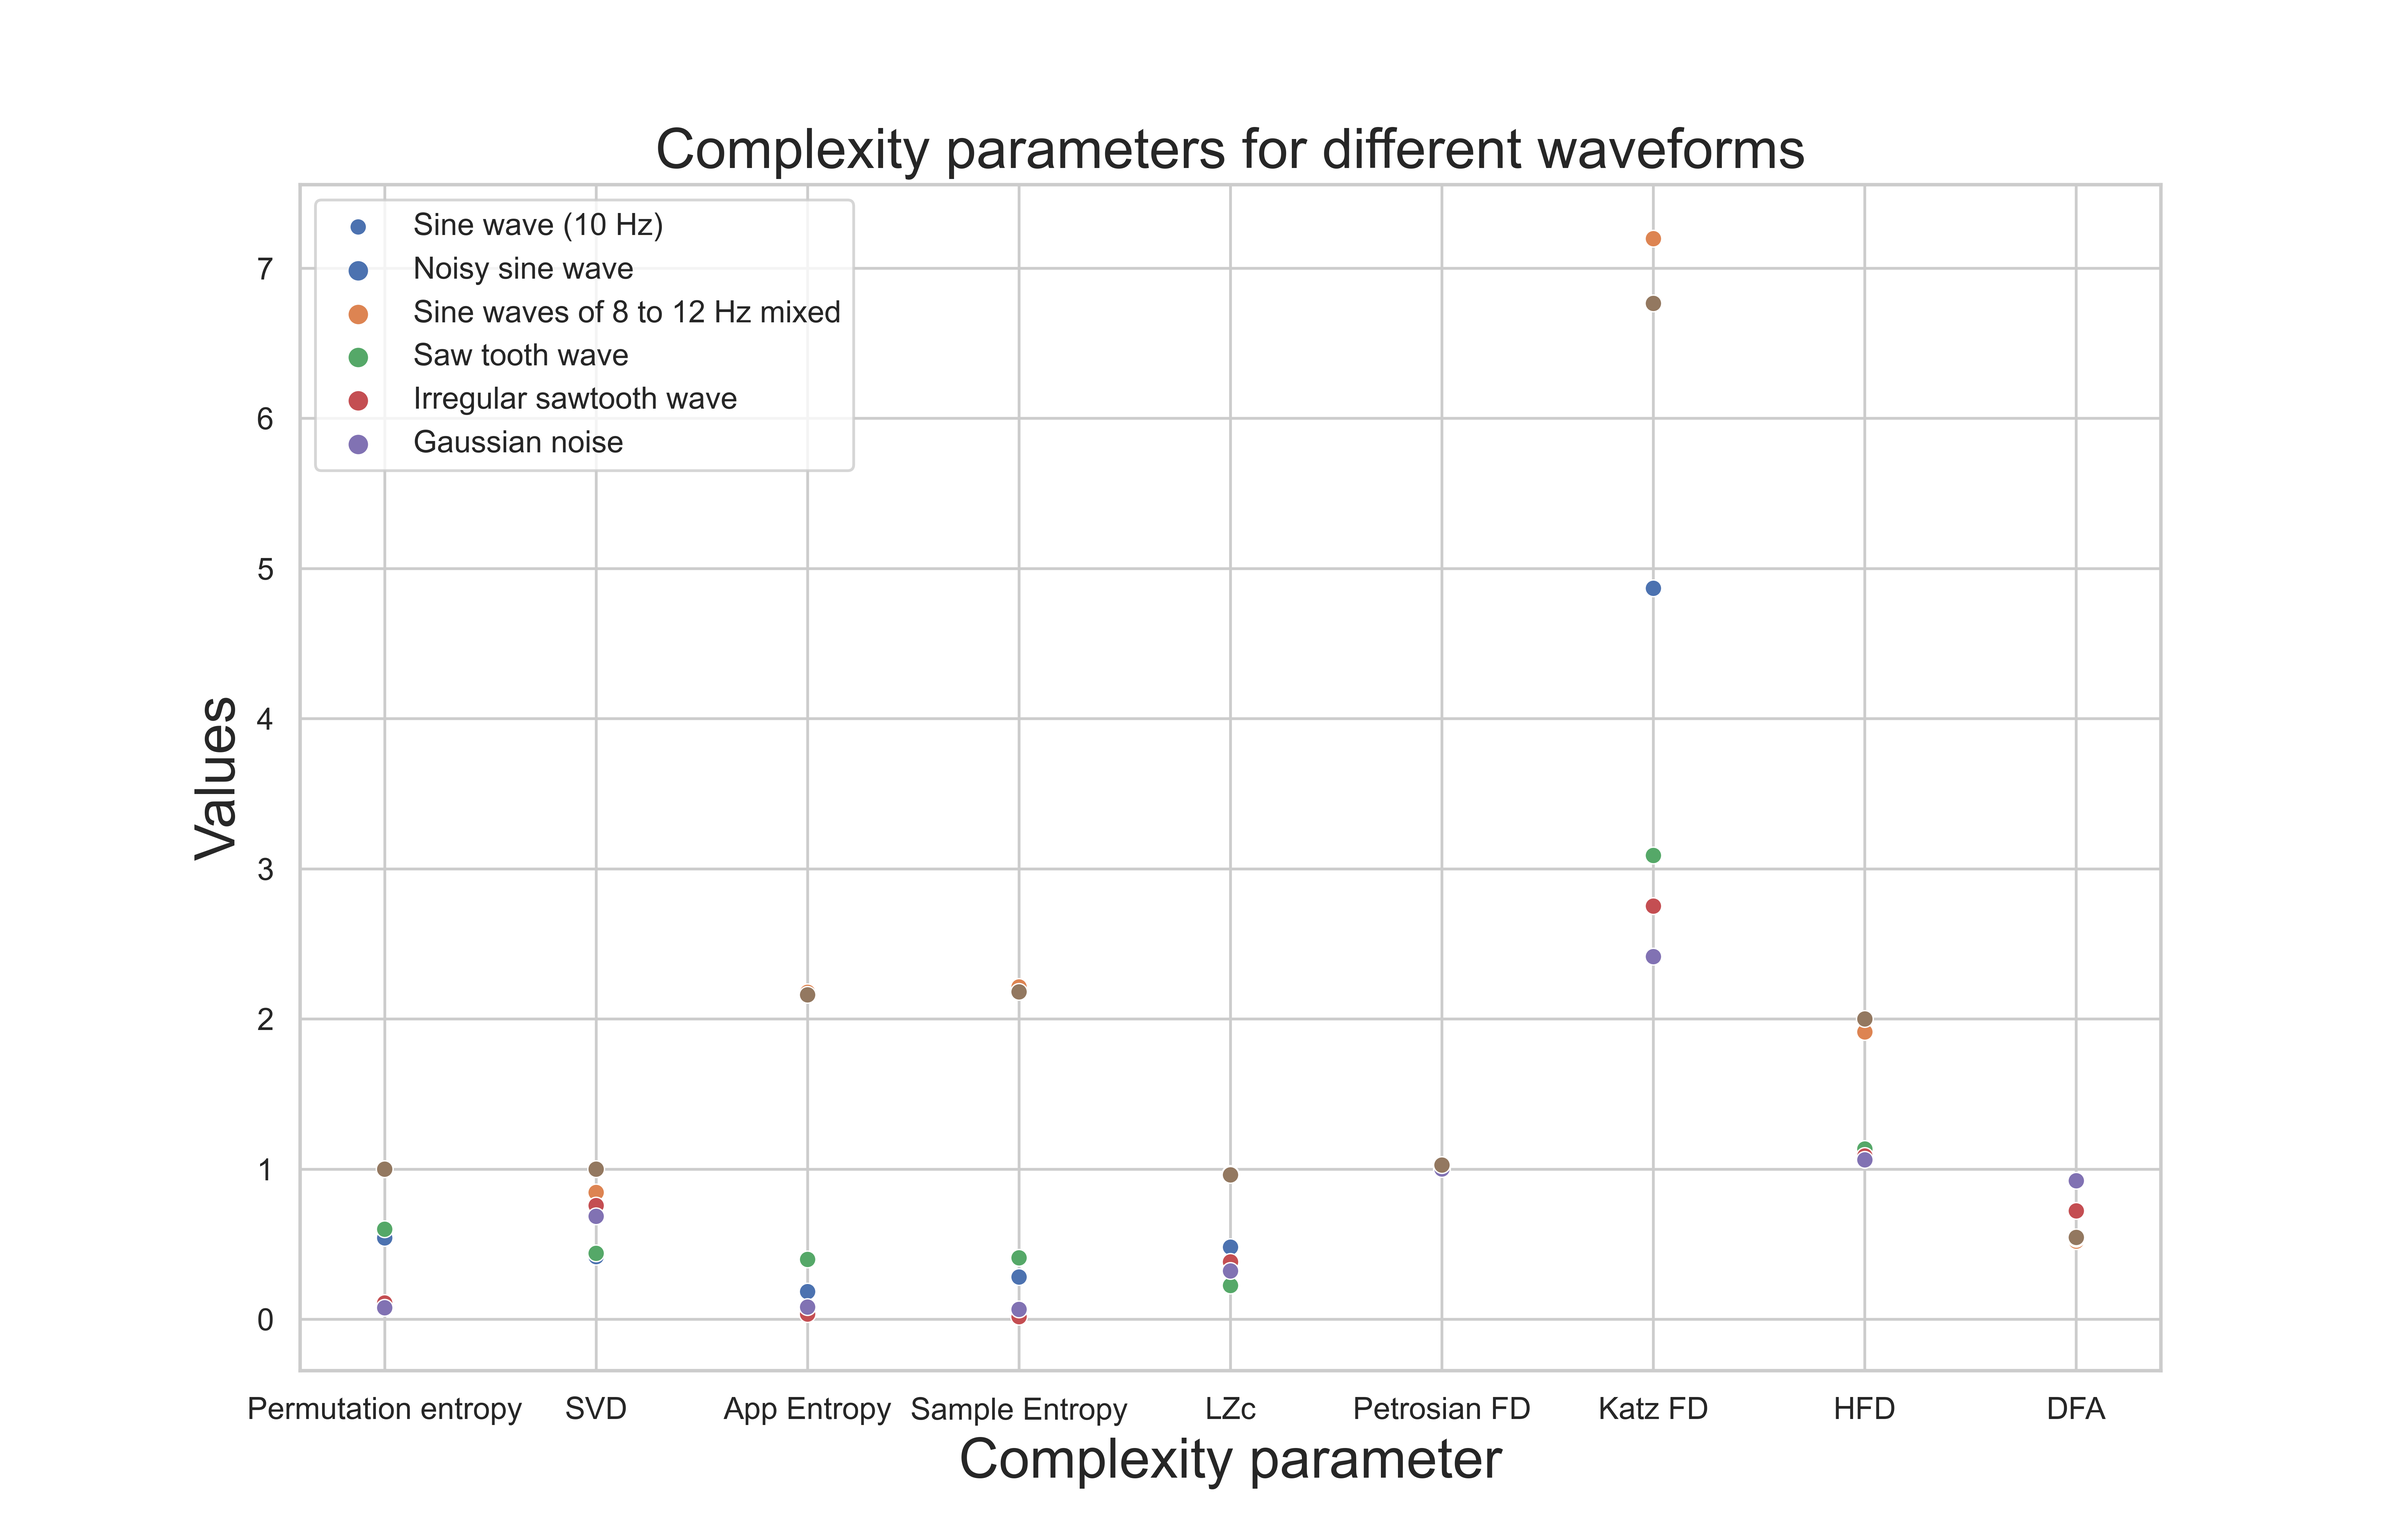
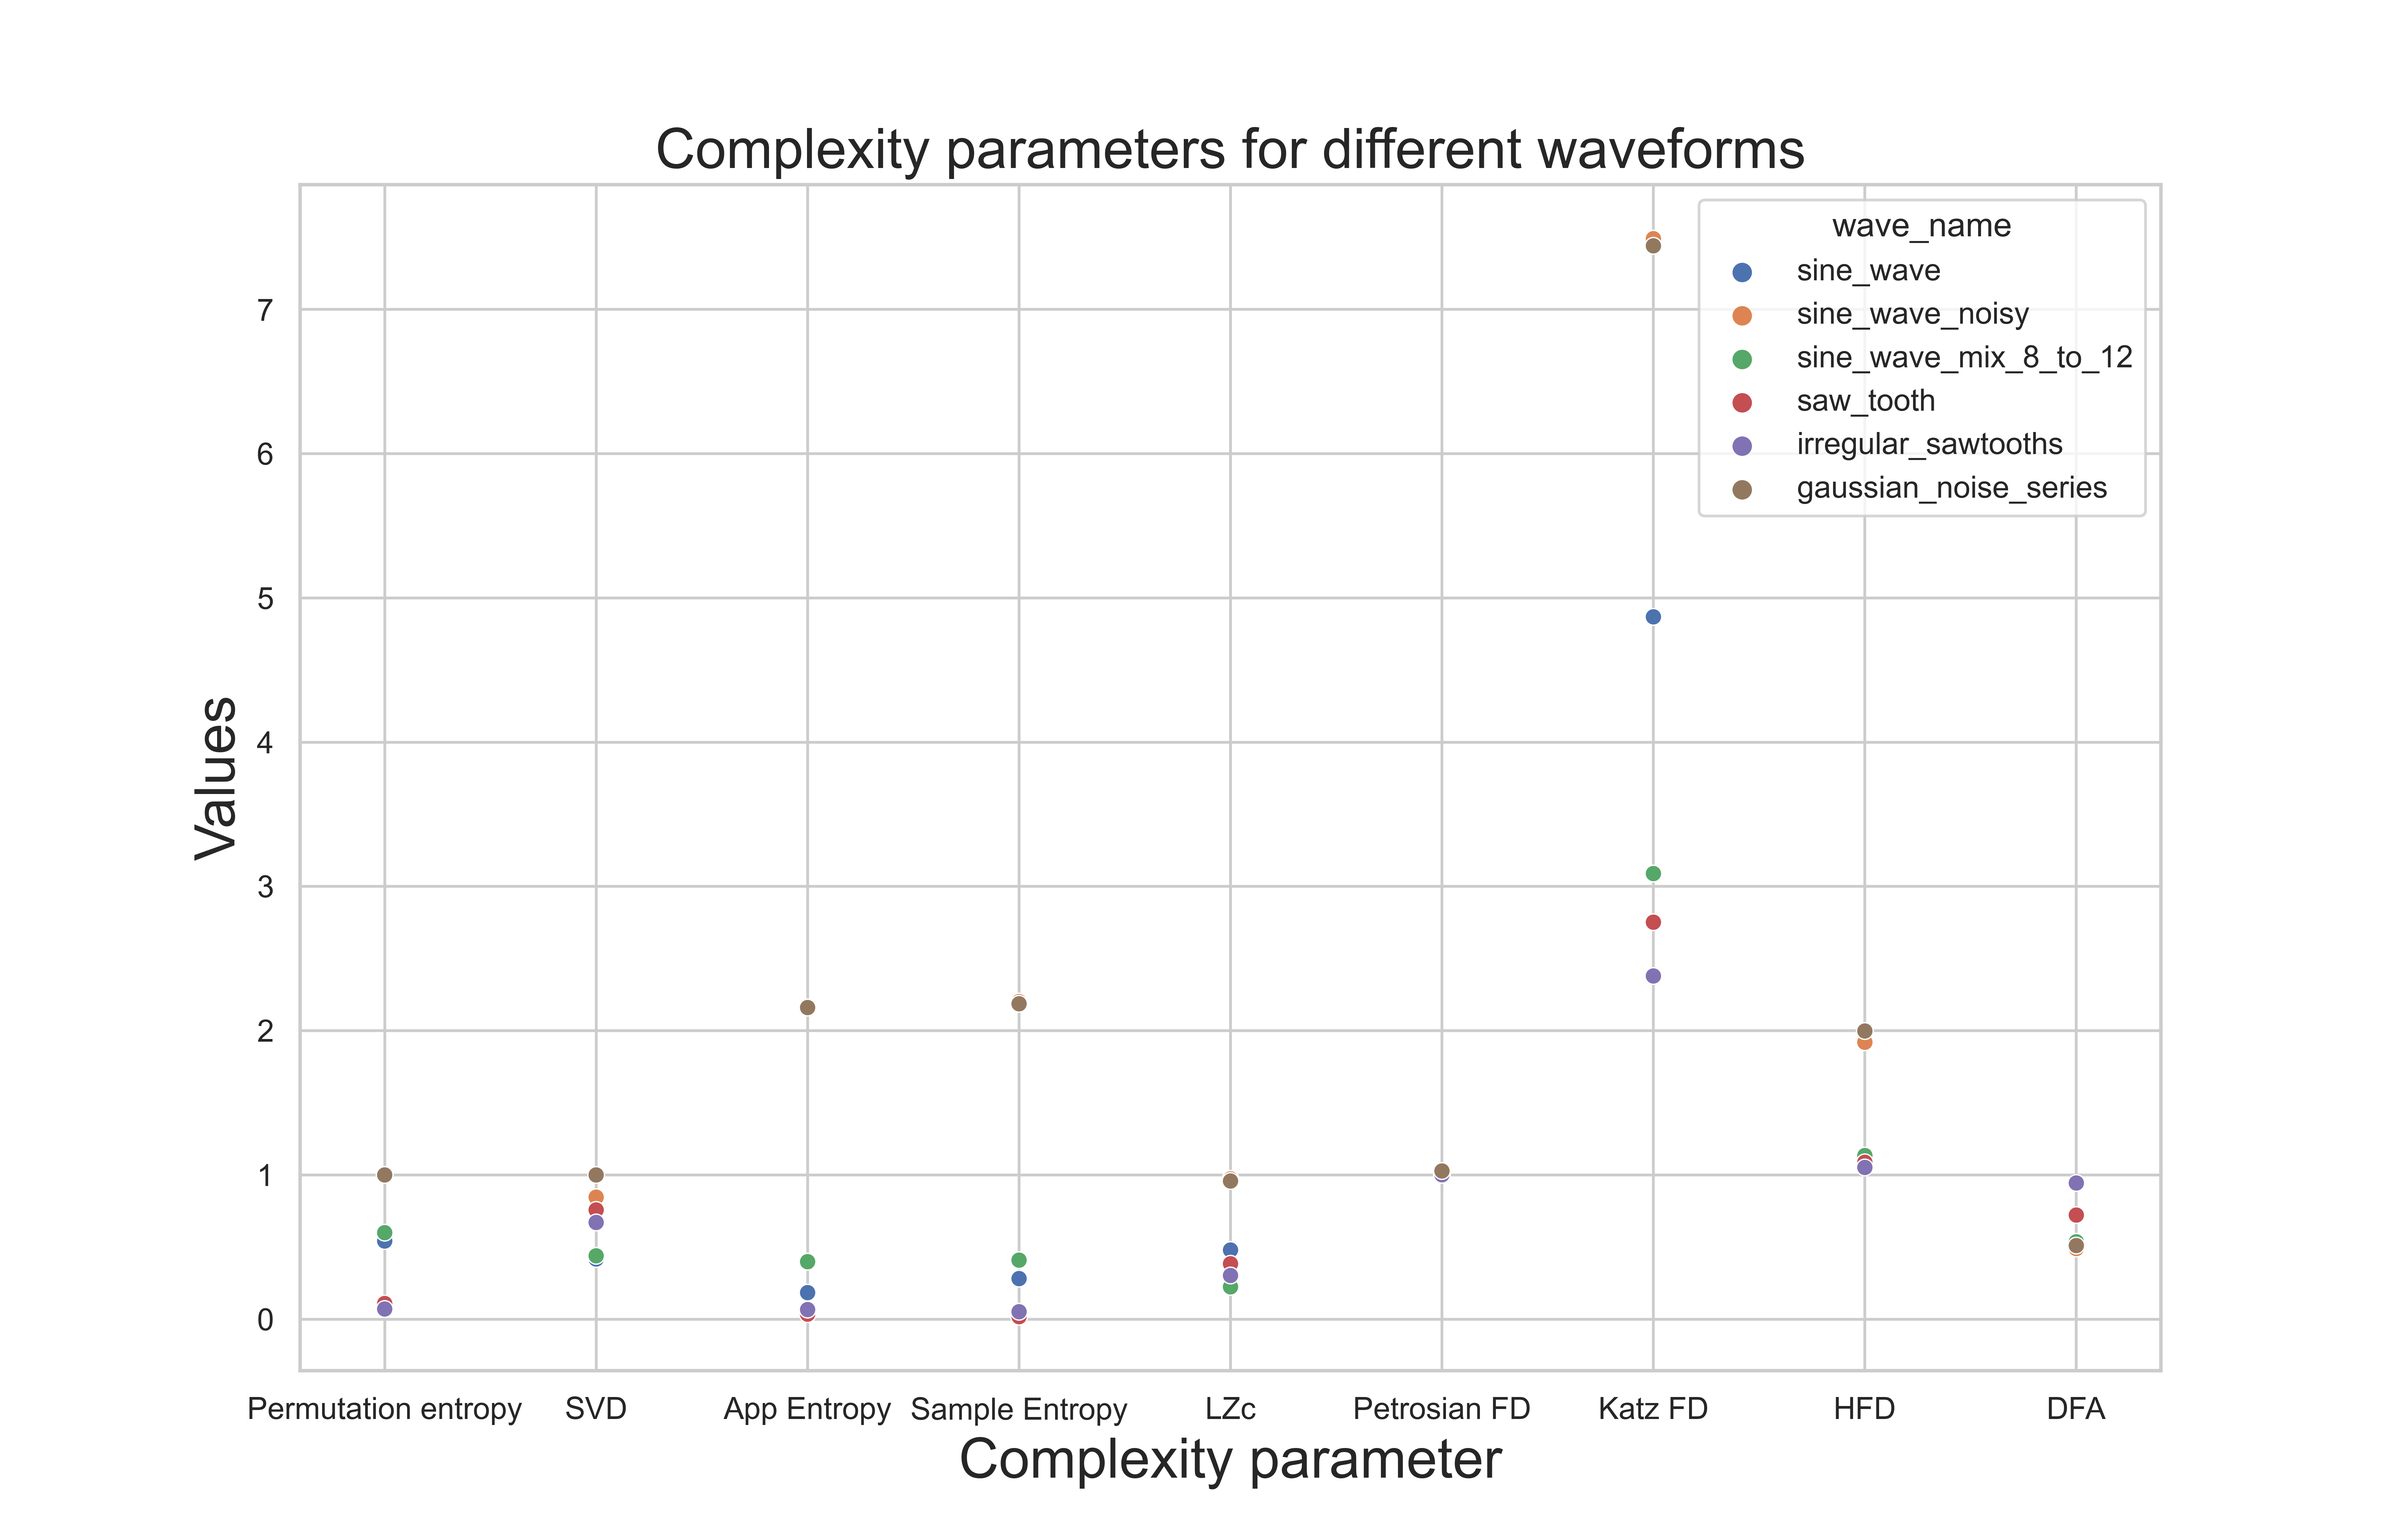
Fixed color changes in legend
When legend was renamed using plt and image was generated using seaborn palette there was a mismatch.

diff --git a/scripts/complexity_comaprison.py b/scripts/complexity_comaprison.py
@@ -330,13 +330,6 @@ complexity_plot.set_ylabel("Values", fontsize = 20)
 complexity_plot.set_title("Complexity parameters for different waveforms",
                           fontsize = 20)
 
-plt.legend(labels=["Sine wave (10 Hz)",
-                   "Noisy sine wave",
-                   "Sine waves of 8 to 12 Hz mixed",
-                   "Saw tooth wave",
-                   "Irregular sawtooth wave",
-                   "Gaussian noise"])
-
 fig = complexity_plot.get_figure()
 fig.savefig(fname = 'comapre_complexity_zoomed.png',
             dpi = 600)
